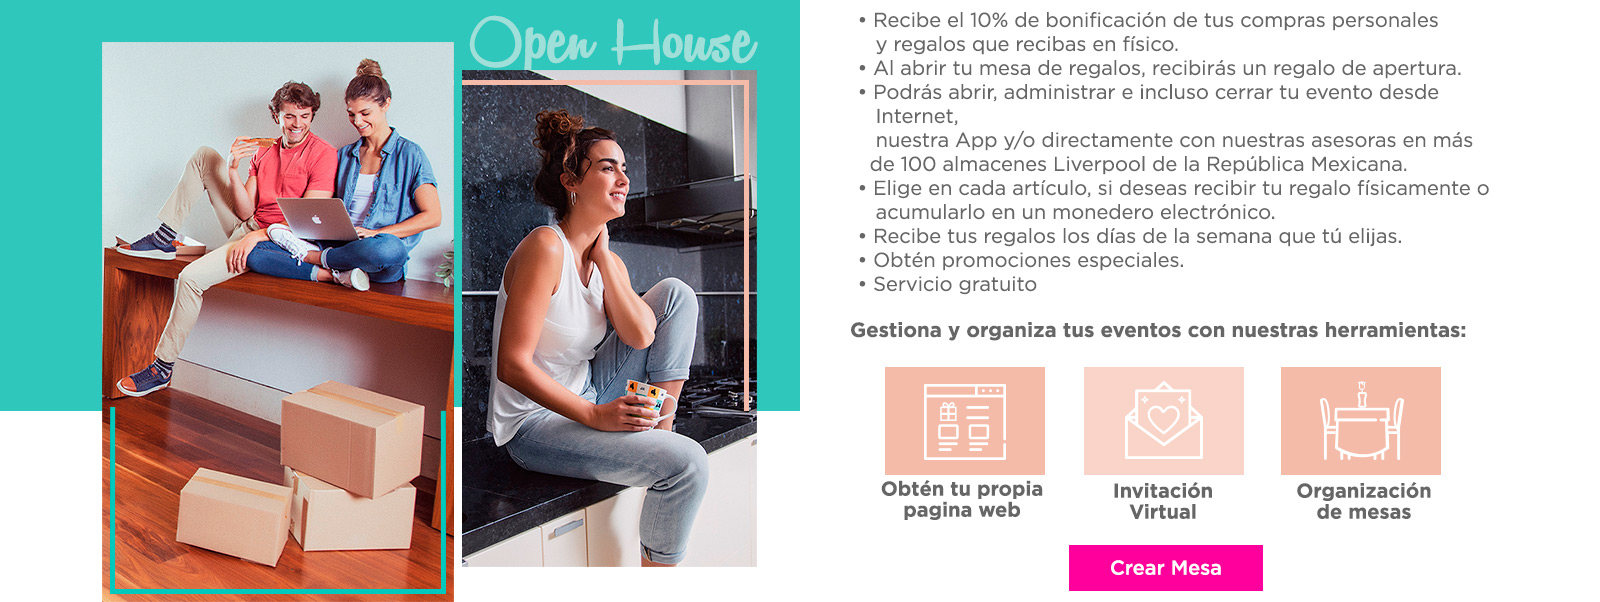
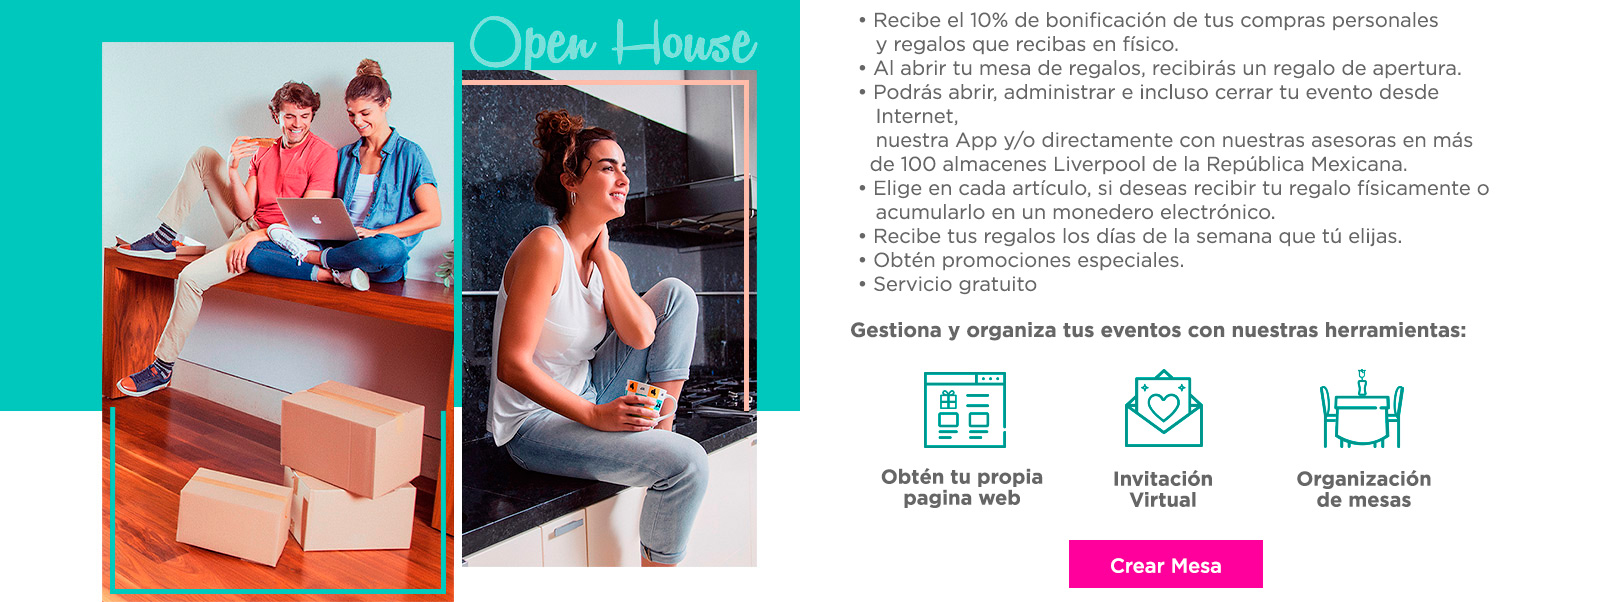
mdr

diff --git a/mdr/css/mdr.css b/mdr/css/mdr.css
@@ -195,7 +195,7 @@
 }
 
 .rewards {
-    margin-top: 50px;
+    margin-top: 20px;
 }
 
 .rewards img{
@@ -210,3 +210,54 @@
 
 
 
+@media (min-width: 1600px) {
+
+    .mesa-font {
+        margin: 30px 0px;
+    }
+
+    .how-back {
+        height: 383px;
+        background-image: url(../img/hmesa1.jpg);
+        background-position: center;
+        background-size: 100%;
+        background-repeat: no-repeat;
+        margin-bottom: 100px;
+    }    
+
+    .how-cont img{
+        width: 170px;
+    }
+
+    .icon1 {
+        text-align: center;
+        padding-top: 220px;
+        transition: .3s ease;
+        opacity: 0;
+        left: 20px;
+    }
+    
+    .icon2 {
+        text-align: center;
+        margin-top: -180px;
+        transition: .3s ease;
+        opacity: 0;
+        left: 20px;
+    }
+
+    .icon3 {
+        text-align: center;
+        margin-top: 180px;
+        transition: .3s ease;
+        opacity: 0;
+        left: 20px;
+    }
+
+    .icon4 {
+        text-align: center;
+        margin-top: -180px;
+        transition: .3s ease;
+        opacity: 0;
+        left: 20px;
+    }
+}
